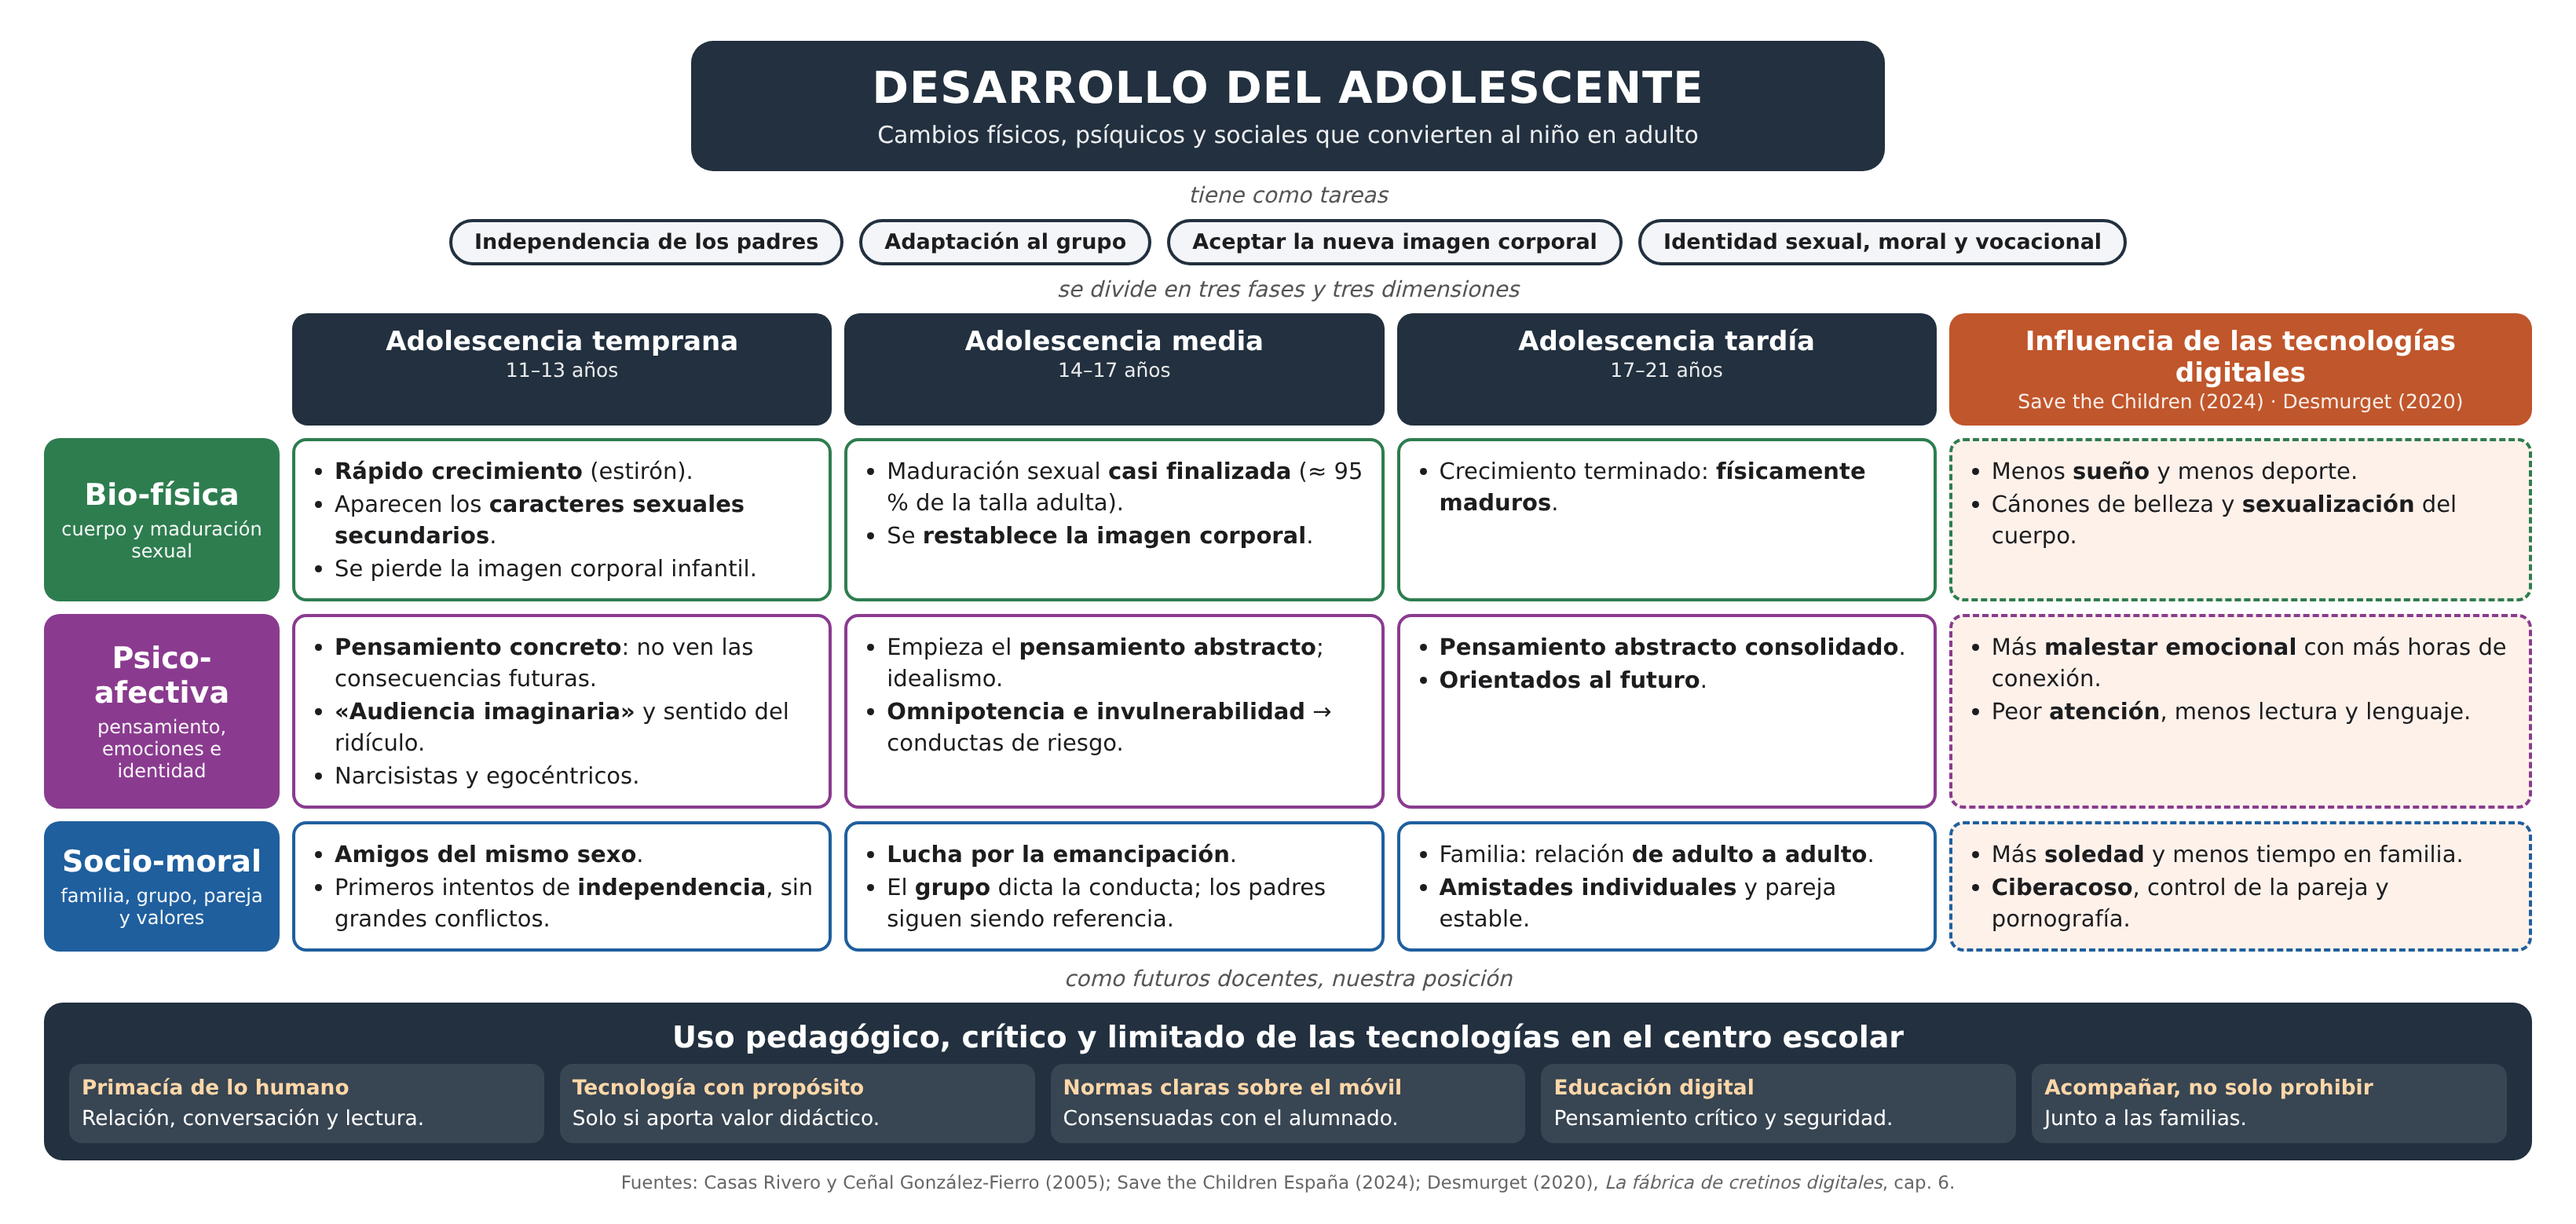
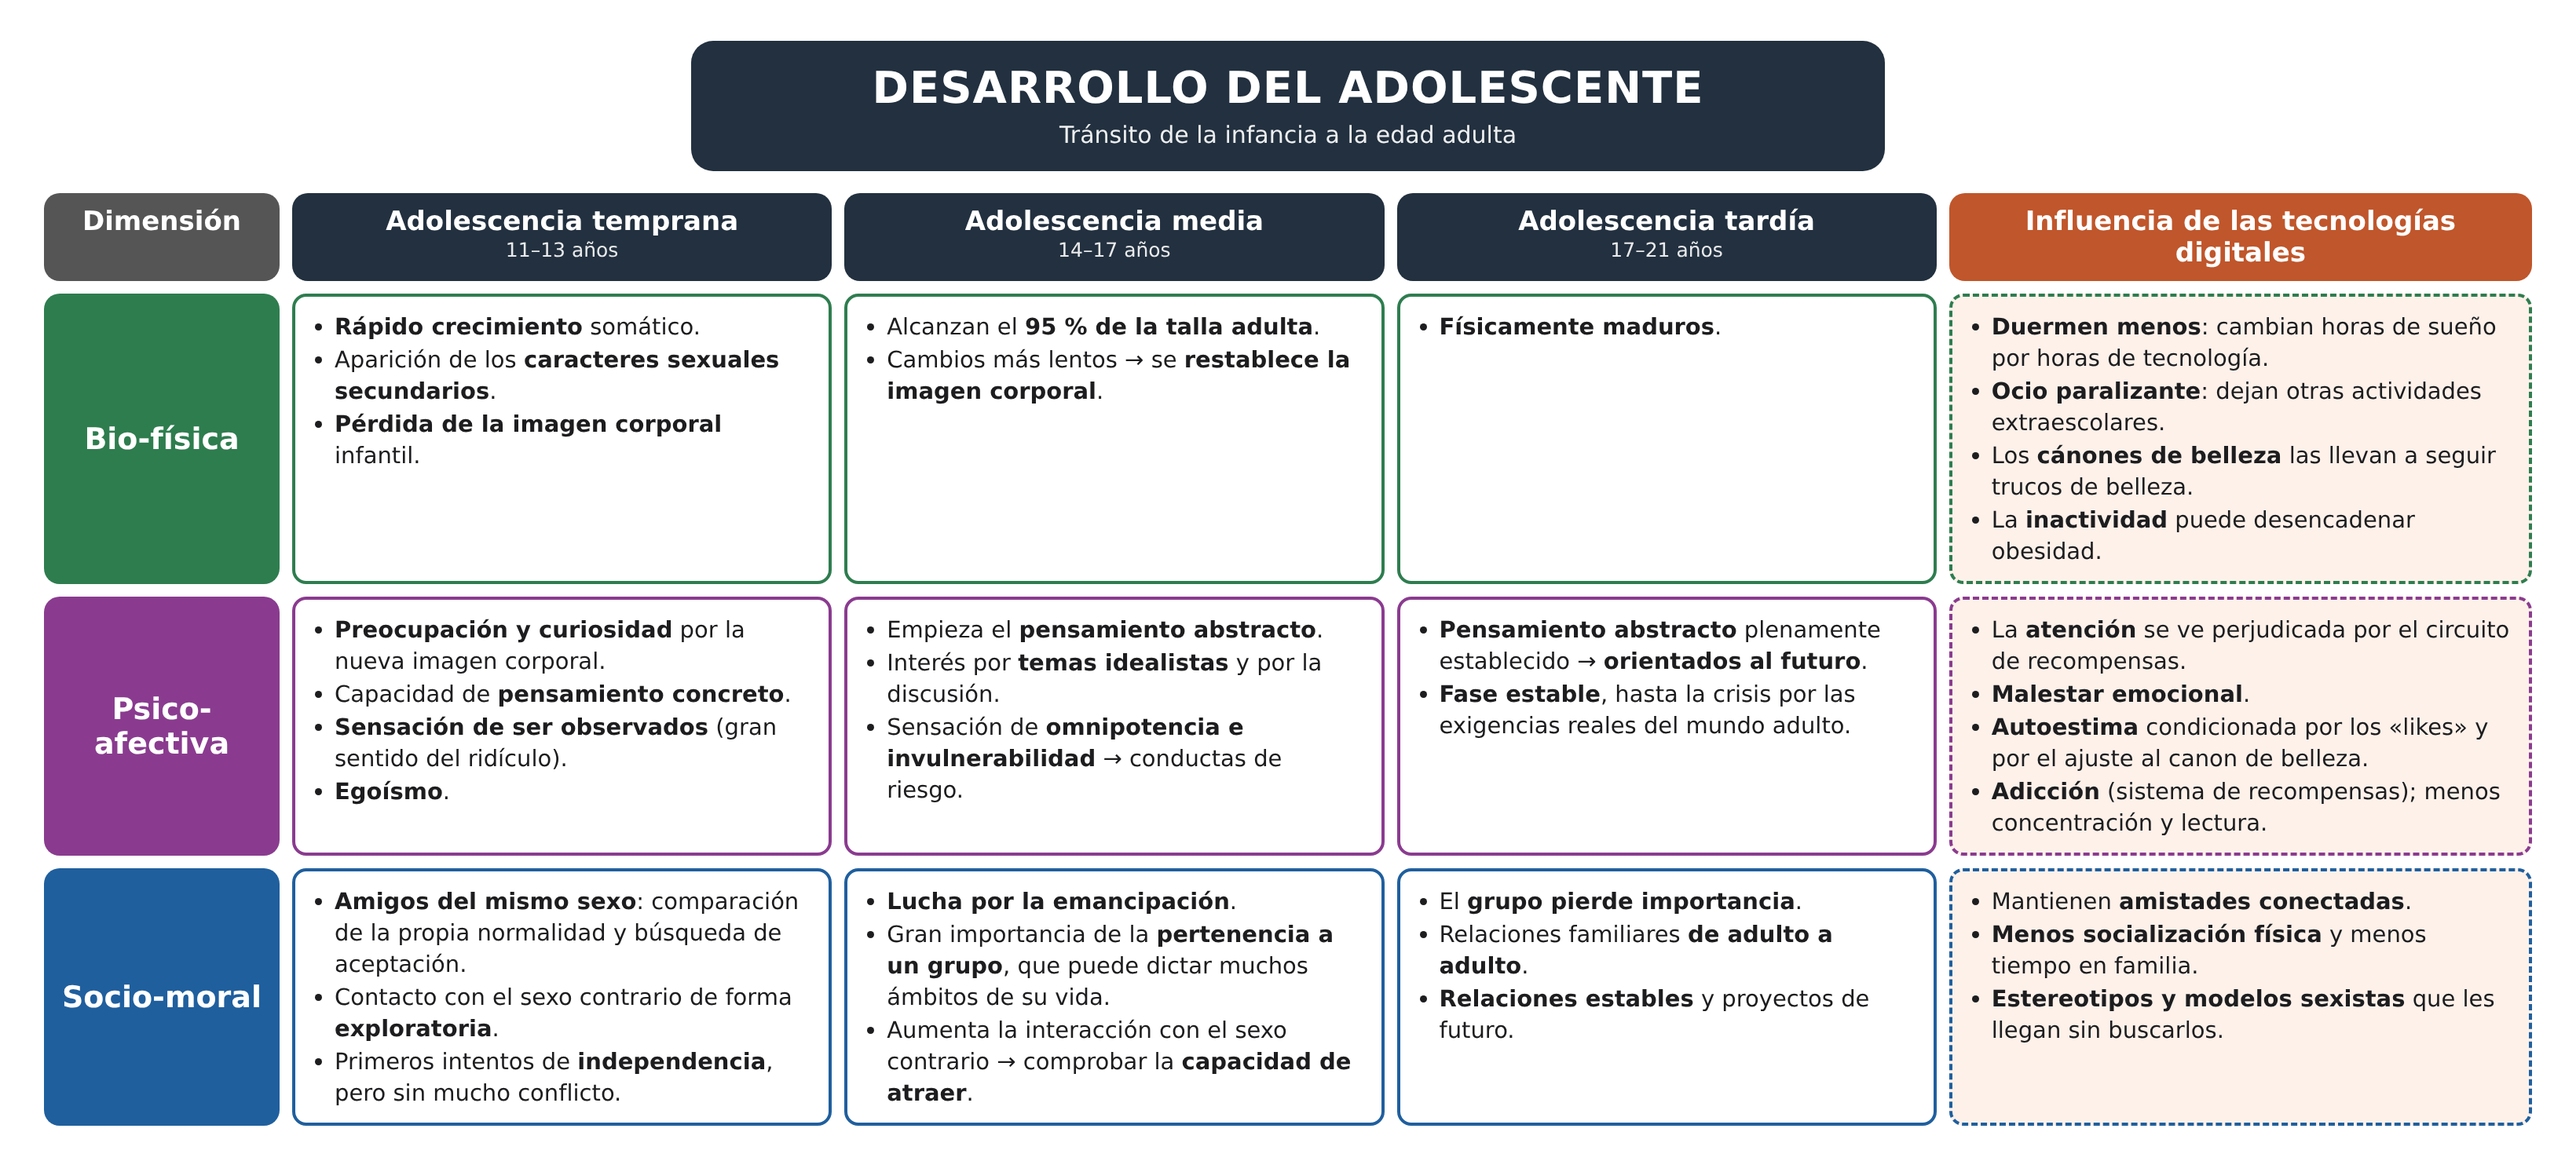
Mapa conceptual pasado a limpio a partir del esquema a mano
Claude-Session: https://claude.ai/code/session_01Pd37RKwwK3xCRjaCne6cYt

diff --git a/tareas/desarrollo_adolescente/mapa_conceptual.html b/tareas/desarrollo_adolescente/mapa_conceptual.html
@@ -32,76 +32,67 @@ body{width:1640px;background:#fff;font-family:"DejaVu Sans",Arial,sans-serif;col
 .final .g b{display:block;color:#ffd7a8;margin-bottom:2px}
 .src{font-size:11.5px;color:#666;margin-top:8px;text-align:center}
 </style></head><body>
-
 <div class="root"><h1>DESARROLLO DEL ADOLESCENTE</h1>
-<p>Cambios físicos, psíquicos y sociales que convierten al niño en adulto</p></div>
-<div class="link">tiene como tareas</div>
-<div class="tareas"><div>Independencia de los padres</div><div>Adaptación al grupo</div><div>Aceptar la nueva imagen corporal</div><div>Identidad sexual, moral y vocacional</div></div>
-<div class="link">se divide en tres fases y tres dimensiones</div>
-
+<p>Tránsito de la infancia a la edad adulta</p></div>
+<div style="height:14px"></div>
 <div class="grid">
- <div></div>
+ <div class="hd" style="background:#555"><h3>Dimensión</h3></div>
  <div class="hd"><h3>Adolescencia temprana</h3><p>11–13 años</p></div>
  <div class="hd"><h3>Adolescencia media</h3><p>14–17 años</p></div>
  <div class="hd"><h3>Adolescencia tardía</h3><p>17–21 años</p></div>
- <div class="hd dig"><h3>Influencia de las tecnologías digitales</h3><p>Save the Children (2024) · Desmurget (2020)</p></div>
+ <div class="hd dig"><h3>Influencia de las tecnologías digitales</h3></div>
 
- <!-- BIO-FÍSICA -->
- <div class="bio"><div class="dim" style="height:100%"><h2>Bio-física</h2><p>cuerpo y maduración sexual</p></div></div>
+ <div class="bio"><div class="dim" style="height:100%"><h2>Bio-física</h2></div></div>
  <div class="bio cell"><ul>
-  <li><b>Rápido crecimiento</b> (estirón).</li>
-  <li>Aparecen los <b>caracteres sexuales secundarios</b>.</li>
-  <li>Se pierde la imagen corporal infantil.</li></ul></div>
+  <li><b>Rápido crecimiento</b> somático.</li>
+  <li>Aparición de los <b>caracteres sexuales secundarios</b>.</li>
+  <li><b>Pérdida de la imagen corporal</b> infantil.</li></ul></div>
  <div class="bio cell"><ul>
-  <li>Maduración sexual <b>casi finalizada</b> (≈ 95 % de la talla adulta).</li>
-  <li>Se <b>restablece la imagen corporal</b>.</li></ul></div>
+  <li>Alcanzan el <b>95 % de la talla adulta</b>.</li>
+  <li>Cambios más lentos → se <b>restablece la imagen corporal</b>.</li></ul></div>
  <div class="bio cell"><ul>
-  <li>Crecimiento terminado: <b>físicamente maduros</b>.</li></ul></div>
+  <li><b>Físicamente maduros</b>.</li></ul></div>
  <div class="bio cell dig"><ul>
-  <li>Menos <b>sueño</b> y menos deporte.</li>
-  <li>Cánones de belleza y <b>sexualización</b> del cuerpo.</li></ul></div>
+  <li><b>Duermen menos</b>: cambian horas de sueño por horas de tecnología.</li>
+  <li><b>Ocio paralizante</b>: dejan otras actividades extraescolares.</li>
+  <li>Los <b>cánones de belleza</b> las llevan a seguir trucos de belleza.</li>
+  <li>La <b>inactividad</b> puede desencadenar obesidad.</li></ul></div>
 
- <!-- PSICO-AFECTIVA -->
- <div class="psi"><div class="dim" style="height:100%"><h2>Psico-afectiva</h2><p>pensamiento, emociones e identidad</p></div></div>
+ <div class="psi"><div class="dim" style="height:100%"><h2>Psico-afectiva</h2></div></div>
  <div class="psi cell"><ul>
-  <li><b>Pensamiento concreto</b>: no ven las consecuencias futuras.</li>
-  <li><b>«Audiencia imaginaria»</b> y sentido del ridículo.</li>
-  <li>Narcisistas y egocéntricos.</li></ul></div>
+  <li><b>Preocupación y curiosidad</b> por la nueva imagen corporal.</li>
+  <li>Capacidad de <b>pensamiento concreto</b>.</li>
+  <li><b>Sensación de ser observados</b> (gran sentido del ridículo).</li>
+  <li><b>Egoísmo</b>.</li></ul></div>
  <div class="psi cell"><ul>
-  <li>Empieza el <b>pensamiento abstracto</b>; idealismo.</li>
-  <li><b>Omnipotencia e invulnerabilidad</b> → conductas de riesgo.</li></ul></div>
+  <li>Empieza el <b>pensamiento abstracto</b>.</li>
+  <li>Interés por <b>temas idealistas</b> y por la discusión.</li>
+  <li>Sensación de <b>omnipotencia e invulnerabilidad</b> → conductas de riesgo.</li></ul></div>
  <div class="psi cell"><ul>
-  <li><b>Pensamiento abstracto consolidado</b>.</li>
-  <li><b>Orientados al futuro</b>.</li></ul></div>
+  <li><b>Pensamiento abstracto</b> plenamente establecido → <b>orientados al futuro</b>.</li>
+  <li><b>Fase estable</b>, hasta la crisis por las exigencias reales del mundo adulto.</li></ul></div>
  <div class="psi cell dig"><ul>
-  <li>Más <b>malestar emocional</b> con más horas de conexión.</li>
-  <li>Peor <b>atención</b>, menos lectura y lenguaje.</li></ul></div>
+  <li>La <b>atención</b> se ve perjudicada por el circuito de recompensas.</li>
+  <li><b>Malestar emocional</b>.</li>
+  <li><b>Autoestima</b> condicionada por los «likes» y por el ajuste al canon de belleza.</li>
+  <li><b>Adicción</b> (sistema de recompensas); menos concentración y lectura.</li></ul></div>
 
- <!-- SOCIO-MORAL -->
- <div class="soc"><div class="dim" style="height:100%"><h2>Socio-moral</h2><p>familia, grupo, pareja y valores</p></div></div>
+ <div class="soc"><div class="dim" style="height:100%"><h2>Socio-moral</h2></div></div>
  <div class="soc cell"><ul>
-  <li><b>Amigos del mismo sexo</b>.</li>
-  <li>Primeros intentos de <b>independencia</b>, sin grandes conflictos.</li></ul></div>
+  <li><b>Amigos del mismo sexo</b>: comparación de la propia normalidad y búsqueda de aceptación.</li>
+  <li>Contacto con el sexo contrario de forma <b>exploratoria</b>.</li>
+  <li>Primeros intentos de <b>independencia</b>, pero sin mucho conflicto.</li></ul></div>
  <div class="soc cell"><ul>
   <li><b>Lucha por la emancipación</b>.</li>
-  <li>El <b>grupo</b> dicta la conducta; los padres siguen siendo referencia.</li></ul></div>
+  <li>Gran importancia de la <b>pertenencia a un grupo</b>, que puede dictar muchos ámbitos de su vida.</li>
+  <li>Aumenta la interacción con el sexo contrario → comprobar la <b>capacidad de atraer</b>.</li></ul></div>
  <div class="soc cell"><ul>
-  <li>Familia: relación <b>de adulto a adulto</b>.</li>
-  <li><b>Amistades individuales</b> y pareja estable.</li></ul></div>
+  <li>El <b>grupo pierde importancia</b>.</li>
+  <li>Relaciones familiares <b>de adulto a adulto</b>.</li>
+  <li><b>Relaciones estables</b> y proyectos de futuro.</li></ul></div>
  <div class="soc cell dig"><ul>
-  <li>Más <b>soledad</b> y menos tiempo en familia.</li>
-  <li><b>Ciberacoso</b>, control de la pareja y pornografía.</li></ul></div>
+  <li>Mantienen <b>amistades conectadas</b>.</li>
+  <li><b>Menos socialización física</b> y menos tiempo en familia.</li>
+  <li><b>Estereotipos y modelos sexistas</b> que les llegan sin buscarlos.</li></ul></div>
 </div>
-
-<div class="link" style="margin-top:9px">como futuros docentes, nuestra posición</div>
-<div class="final"><h2>Uso pedagógico, crítico y limitado de las tecnologías en el centro escolar</h2>
- <div class="g">
-  <div><b>Primacía de lo humano</b>Relación, conversación y lectura.</div>
-  <div><b>Tecnología con propósito</b>Solo si aporta valor didáctico.</div>
-  <div><b>Normas claras sobre el móvil</b>Consensuadas con el alumnado.</div>
-  <div><b>Educación digital</b>Pensamiento crítico y seguridad.</div>
-  <div><b>Acompañar, no solo prohibir</b>Junto a las familias.</div>
- </div>
-</div>
-<div class="src">Fuentes: Casas Rivero y Ceñal González-Fierro (2005); Save the Children España (2024); Desmurget (2020), <i>La fábrica de cretinos digitales</i>, cap. 6.</div>
 </body></html>
